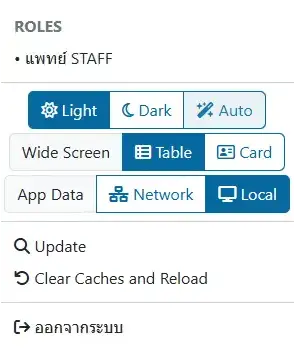
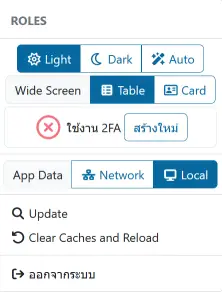
Added contents

diff --git a/src/other/drug-information.md b/src/other/drug-information.md
@@ -1,0 +1,56 @@
+# Drug Information
+
+ระบบสำหรับบันทึกรายละเอียดเวชภัณฑ์ยา 3 ด้าน
+1. `ข้อมูลทั่วไป (Info)` : เป็นข้อมูลยา ที่จะแสดงเมื่อเลือกเวชภัณฑ์ยานั้นใน Order เพื่อเป็นข้อมูลให้รับทราบเท่านั้น
+2. `เงื่อนไขการใช้ยา และขนาดยาที่เหมาะสม (DUE)` : เป็นข้อมูลเงื่อนไข ที่จะแสดงเมื่อเลือกเวชภัณฑ์ยานั้นใน Order และแพทย์ต้องยืนยัน หรือให้เหตุผลประกอบหากผิดเงื่อนไข รวมถึงเภสัชกรสามารถให้ความเห็นเพิ่มเติมให้แพทย์พิจาณาการใช้ยาต่อได้ด้วย
+3. `การบริหารยา การติดตามอาการ และการแก้ปัญหาเบื้องต้น (Monitor)` : เป็นข้อมูลการบริหารยา ที่จะแสดงขณะเจ้าหน้าที่ให้บริการ (Action ใน Index Action) รวมถึงจำนวน/ระยะเวลาการติดตาม ที่เจ้าหน้าที่ต้องบันทึกใน Monitor (ใน Index Monitor)
+
+![Drug Information Head](images/drug-information-head.webp)
+
+ตัวกรองในการค้นหา ได้แก่
+* `สถานะ Info` : เปิด/ปิด การใช้งาน `ข้อมูลทั่วไป (Info)`
+* `สถานะ DUE` : เปิด/ปิด การใช้งาน `เงื่อนไขการใช้ยา และขนาดยาที่เหมาะสม (DUE)`
+* `สถานะ Monitor` : เปิด/ปิด การใช้งาน `การบริหารยา การติดตามอาการ และการแก้ปัญหาเบื้องต้น (Monitor)`
+* `icode` : ค้นหาด้วยรหัสเวชภัณฑ์ใน HOSxP
+* `ชื่อยา ปริมาณ บรรจุ` : ค้นหาด้วยชื่อยา ปริมาณ หรือบรรจุ
+* <i class="fas fa-magnifying-glass" style="color:orange;"></i> `ค้นหา` : เพื่อสั่งการค้นหา
+* <i class="fas fa-plus" style="color:orange;"></i> `เพิ่ม` : เพิ่มรายการใหม่ 
+
+ตัวอย่าง การเพิ่มรายการใหม่
+
+![Drug Information Edit](images/drug-information-edit.webp)
+
+ตัวอย่าง การแสดง `ข้อมูลทั่วไป (Info)` ขณะแพทย์เลือกยาที่เปิดใช้งาน
+
+![Drug Information Info](images/drug-information-info.webp)
+
+ตัวอย่าง การแสดง `เงื่อนไขการใช้ยา และขนาดยาที่เหมาะสม (DUE)` ก่อนที่แพทย์จะยืนยันรายการ ต้องพิจารณาว่า `ตรงตามเกณฑ์` หรือ `มีความจำเป็น` และให้เหตุผลประกอบความจำเป็นนั้น
+
+![Drug Information Doctor](images/drug-information-doctor.webp)
+
+ตัวอย่าง การแสดง `เงื่อนไขการใช้ยา และขนาดยาที่เหมาะสม (DUE)` ก่อนที่เภสัชกร จะรับรายการ โดยเภสัชกรสามารถ `มีข้อเสนอแนะเพื่อพิจารณา` ให้แพทย์พิจารณาใหม่ (โดยยังไม่รับรายการ) ได้
+
+![Drug Information Pharm](images/drug-information-pharm.webp)
+
+ตัวอย่าง การแสดง `การบริหารยา การติดตามอาการ และการแก้ปัญหาเบื้องต้น (Monitor)` เมื่อเจ้าหน้าที่ให้บริการ รวมถึงการ Monitor
+
+![Drug Information Monitor](images/drug-information-monitor.webp)
+
+<div class="warning">
+
+ท่านสามารถระบุการเตือนการใช้เวชภัณฑ์ยา เกินเวลาที่กำหนดได้ ด้วยการตั้งค่าจำนวนวัน
+
+`ชั้นต่ำ` `ขั้นกลาง` และ `ขั้นสูง`
+
+ระบบจะแสดงชื่อเวชภัณฑ์ยาด้วยสีที่กำหนดใน Order
+
+</div>
+
+<div class="warning">
+ท่านสามารถใช้ อักษรก้ามปู
+
+`[`, `]` ครอบตัวอักษรที่ต้องการ เช่น `[Dosage]`
+
+ระบบจะแสดงข้อความด้วย ตัวหนา + สีแดง ขณะแสดงผล เช่น <span style="font-weight:700;color:red;">Dosage</span>
+
+</div>

diff --git a/src/extra/report-designer.md b/src/extra/report-designer.md
@@ -4,19 +4,49 @@
 - รายงาน เขียนด้วยภาษา [Typst](https://typst.app/docs)
 - ชุดข้อมูล ในรูปแบบ [json](https://www.json.org/)
 
-![Report Designer](images/report-designer.webp)
+![Report Designer Sys Show](images/report-designer-sys-show.webp)
 
 ประกอบด้วย 4 ส่วน ได้แก่
 1. เครื่องมือด้านบน ประกอบด้วย
-    * `Report` : สำหรับเลือกรายงานที่มีในระบบ
-    * `ID`/`AN`/`VN` : สำหรับระบุแหล่งข้อมูล เช่น รายงานผู้ป่วยใน ใช้ AN ในการระบุแหล่งข้อมูล
+    * `System / Custom / Demo` : สำหรับเลือกประเภทรายงาน
+    * `Typst / MySQL / Info` : สำหรับเลือกการแสดงผล code ด้านบนซ้าย
+    * `Template` : สำหรับเลือกรายงานที่ต้องการ
+    * `Params` : สำหรับแสดงรายการ parameters
+    * `Values` : สำหรับแสดงรายการ values
+    * `QUERY` : ปุ่มสำหรับเรียกข้อมูล `data.json` จากเครื่องแม่ข่ายด้วย MySQL, Params และ Values ที่ระบุ 
     * `LOAD` : ปุ่มสำหรับเรียกข้อมูล `Report` และ `ID`/`AN`/`VN` จากเครื่องแม่ข่าย
+
+1. หน้าต่างด้าน`ซ้ายบน` สามารถแสดง code 3 ประเภท ได้แก่
+    - `Typst` สำหรับแก้ไขรายงาน ด้วยภาษา [Typst](https://typst.app/docs)
+    - `MySQL` สำหรับแก้ไข MySQL ที่จะแทนที่ `__HOSXP__`, `__KPHIS__`, `__KPHIS_LOG__`, `__KPHIS_EXTRA__` ด้วยชื่อฐานข้อมูลจาก config
+    - `Info` สำหรับแสดงคุ่มือการใช้รายงานนั้นๆ
+1. `data.json` : หน้าต่างด้าน`ซ้ายล่าง` สำหรับแก้ไขชุดข้อมูล [json](https://www.json.org/)
+1. ตัวอย่างรายงาน : หน้าต่างด้าน`ขวา` สำหรับแสดงตัวอย่างรายงาน
+1. เครื่องมือแสดงรายงานด้านล่างขวา
+    * <i class="fas fa-arrow-left" style="color:orange;"></i><i class="fas fa-arrow-right" style="color:orange;"></i> : ปุ่มสำหรับปรับขนาดรายงานให้เต็มความกว้าง
     * `[-][100%][+]` : ปุ่มสำหรับย่อและขยายขนาดของตัวอย่างรายงาน
     * `RENDER` : ปุ่มสำหรับสร้างรายงานและแสดงบนหน้าจอ
     * `PDF` : ปุ่มสำหรับสร้างรายงาน เป็นไฟล์ PDF
-1. `Typst` : หน้าต่างด้าน`ซ้ายบน` สำหรับแก้ไขรายงาน ด้วยภาษา [Typst](https://typst.app/docs)
-1. `data.json` : หน้าต่างด้าน`ซ้ายล่าง` สำหรับแก้ไขชุดข้อมูล [json](https://www.json.org/)
-1. ตัวอย่างรายงาน : หน้าต่างด้าน`ขวา` สำหรับแสดงตัวอย่างรายงาน
+    * <i class="fas fa-window-maximize" style="color:orange;"></i> : ปุ่มสำหรับปิด/เปิดส่วนแสดงรายงาน
+
+ตัวอย่างการกรอก parameters
+
+![Report Designer Custom Params](images/report-designer-custom-params.webp)
+
+ระบบจะนำ parameter ป้อนให้ Parameterized Query ตามลำดับ `?` ใน MySQL โดย parameter มี 6 ชนิด ได้แก่
+- `Single` : ใช้ร่วมกับ `?` โดยตรง
+- `List` : ใช้ร่วมกับ `?` ด้วย `Value` และ `Label` ที่กำหนดไว้
+- `System List` : ใช้ร่วมกับ `?` ด้วย `Value` และ `Label` จากตารางใน HOSxP และ KPHIS
+- `Array` : ใช้ร่วมกับ `IN (?)` ด้วย values หลายค่าได้ เช่นเดียวกับ `IN (?,?,?)`
+- `Array of List` : ใช้ร่วมกับ `IN (?)` ด้วย `Value` และ `Label` ที่กำหนดไว้
+- `Array of System List` : ใช้ร่วมกับ `IN (?)` ด้วย `Value` และ `Label` จากตารางใน HOSxP และ KPHIS
+
+ตัวอย่างการกรอก values
+
+![Report Designer Sys ID](images/report-designer-sys-ids.webp)
+
+- values สำหรับ parameter ชนิด `Single`, `List` และ `System List` มีได้เพียงค่าเดียว
+- values สำหรับ parameter ชนิด `Array`, `Array of List` และ `Array of System List` มีได้หลายค่า คั่นด้วย `,`
 
 <div class="warning">
 

diff --git a/src/extra/coding-audit.md b/src/extra/coding-audit.md
@@ -1,0 +1,32 @@
+# ระบบประเมินการให้รหัสโรคผู้ป่วยใน SA/CA (Summary/Coding Audit)
+
+ระบบสำหรับประเมินการให้รหัสโรค โดยใช้ข้อมูลการให้รหัสโรคใน HOSxP, คำวินิจฉัยโดยแพทย์ใน KPHIS และรหัสโรคใน KPHIS เพื่อให้ Auditor ประเมิน Summary Audit (SA) และ Coding Audit (CA) รวมถึงเปรียบเทียบ AdjRW จากการให้รหัสโรคดังกล่าวด้วย 
+
+![Coding Audit Top](images/coding-audit-top.webp)
+- ปุ่ม `+ เพิ่ม` : เพิ่มการ Audit ใหม่ (เวชระเบียน สามารถมีการ Audit ได้หลายครั้ง)
+- กล่อง `PROBLEM LIST` : แสดง Problem list ทั้งหมดในเวชระเบียน (คัดรายการที่ซ้ำกันออกแล้ว) เช่นเดียวกับในระบบ [บันทึกการสรุปเวชระเบียน (In-Patient Summary)](ipd/summary.md)
+- กล่อง `LAB ALERT` : แสดง Lab Alert ที่พบในเวชระเบียน เช่นเดียวกับในระบบ [บันทึกการสรุปเวชระเบียน (In-Patient Summary)](ipd/summary.md)
+- กล่อง `Current Dx/Op on Summary (KPHIS)` : แสดงรายการ `คำวินิจฉัยโรค` ตามการสรุปเวชระเบียนใน KPHIS
+- กล่อง `Current ICD in Summary (KPHIS)` : แสดงรายการ `รหัสโรค` ที่ Coder ได้ให้ไว้ใน KPHIS
+- กล่อง `Current ICD in Computer (HOSxP)` : แสดงรายการ `รหัสโรค` ที่ Coder ได้ให้ไว้ใน HOSxP
+- กล่อง `AUDITOR / CODER / DOCTOR NOTE` : ระบบข้อความสำหรับสื่อสารระหว่าง Auditor, Coder และแพทย์ผู้สรุปเวชระเบียน เช่นเดียวกับในระบบ [บันทึกการสรุปเวชระเบียน (In-Patient Summary)](ipd/summary.md)
+- กล่อง `SUMMARY STATUS` : สำหรับกำหนดสถานะของเวชระเบียน เพื่อดำเนินการต่อไป
+
+![Coding Audit Bottom](images/coding-audit-bottom.webp)
+- `Audit Type` : กำหนดรายการ Audit แบบ Internal หรือ External audit
+- `Payer Type` : กำหนดกองทุนเงินชดเชยค่ารักษาพยาบาล ได้แก่ `UC`(หลักประกันสุขภาพแห่งชาติ), `OFC`(เบิกได้/กรมบัญชีกลาง), `LGO`(สวัสดิการพนักงานส่วนท้องถิ่น) และ `SSS`(ประกันสังคม)
+- `Physician's authentication` : กำหนดวิธีลงนามของแพทย์ ได้แก่ `No`(ไม่ได้ลงนาม), `Text`(ชื่อ-สกุล), `Cursive`(ลายเซ็น) และ `Digital`(ลายเซ็นติจิทัล),
+- `SA` : การประเมิน Summary Audit ในภาพรวมของเวชระเบียน
+- `CA` : การประเมิน Coding Audit ในภาพรวมของเวชระเบียน
+- `ค้นหา` : กล่องสำหรับค้นหา รหัสโรค ICD10 และ ICD9CM
+- `ประเมินการบันทึกข้อมูล` : รายการประเมินข้อมูลทั่วไปในเวชระเบียน
+- การประเมิน PDx, SDx, ODx และ Op : บันทึกผลการประเมิน Summary Audit และ Coding Audit ในแต่ละการวินิจฉัย
+- `DRG in Computer` : คำนวน DRG จากข้อมูล `In Computer` ทั้งหมด
+- `DRG from R ICD` : คำนวน DRG จากการให้รหัสของ Auditor
+
+<div class="warning">
+
+ท่านสามารถลากข้อความ จากกล่อง `Current Dx/Op on Summary (KPHIS)`, `Current ICD in Summary (KPHIS)` และ `Current ICD in Computer (HOSxP)` ลงมายัง การประเมิน PDx, SDx, ODx และ Op ได้
+
+และท่านก็สามารถลากข้อความ ใน `??? in Summary`, `S ICD`, `C ICD`, `R ICD`, `??? from Review` จาก PDx/SDx/ODx/Op หนึ่ง สลับกับอีก PDx/SDx/ODx/Op ได้ด้วย 
+</div>

diff --git a/src/extra/README.md b/src/extra/README.md
@@ -1,6 +1,7 @@
 # เพิ่มเติมจาก KPHIS ต้นฉบับ
-
-- [ระบบออกแบบเอกสาร (Report Designer)](extra/report-designer.md) : ระบบสำหรับทดลองสร้างรายงาน โดยอ้างอิงจากรายงานในระบบ ท่านสามารถแก้ไขรายงานด้วยภาษา [Typst](https://typst.app/docs)  และแก้ไขชุดข้อมูล [json](https://www.json.org/) ได้
-- [ระบบรูปภาพ](extra/image.md) : ระบบอัพโหลดและแสดงรูปภาพใน KPHIS เพื่อใช้ประโยชน์ในการดูแลรักษาผู้ป่วย
-- [ระบบข้อความ](extra/message.md) : ระบบรับ-ส่งข้อความใน KPHIS โดยมีข้อความจากระบบงาน ข้อความระหว่างผู้ใช้งาน และหน่วยงาน/หอผู้ป่วย
-- [ระบบทบทวนเวชระเบียนผู้ป่วยใน (IPD-MRA)](extra/ipd-mra.md) : ระบบสำหรับบันทึก การทบทวนเวชระเบียนผู้ป่วยใน ตามคู่มือการตรวจประเมินคุณภาพเวชระเบียน (Medical Record Audit Guideline) 2563 โดยสถาบันรับรองคุณภาพสถานพยาบาล (องค์กรมหาชน), สภาการพยาบาล, กรมบัญชีกลาง, สำนักงานประกันสังคม และสำนักงานหลักประกันสุขภาพแห่งชาติ
+- [ระบบแสดงรายงาน (Report Viewer)](report-viewer.md) : ระบบสำหรับแสดงรายงาน
+- [ระบบออกแบบเอกสาร (Report Designer)](report-designer.md) : ระบบสำหรับสร้างรายงานใหม่ หรือทดสอบรายงานในระบบ โดยท่านสามารถแก้ไขรายงานด้วยภาษา [Typst](https://typst.app/docs) กำหนดตัวแปรต่างๆ รวมถึงการแก้ไขชุดข้อมูล [json](https://www.json.org/) ได้
+- [ระบบรูปภาพ](image.md) : ระบบอัพโหลดและแสดงรูปภาพใน KPHIS เพื่อใช้ประโยชน์ในการดูแลรักษาผู้ป่วย
+- [ระบบข้อความ](message.md) : ระบบรับ-ส่งข้อความใน KPHIS โดยมีข้อความจากระบบงาน ข้อความระหว่างผู้ใช้งาน และหน่วยงาน/หอผู้ป่วย
+- [ระบบทบทวนเวชระเบียนผู้ป่วยใน (IPD-MRA)](ipd-mra.md) : ระบบสำหรับบันทึก การทบทวนเวชระเบียนผู้ป่วยใน ตามคู่มือการตรวจประเมินคุณภาพเวชระเบียน (Medical Record Audit Guideline) 2563 โดยสถาบันรับรองคุณภาพสถานพยาบาล (องค์กรมหาชน), สภาการพยาบาล, กรมบัญชีกลาง, สำนักงานประกันสังคม และสำนักงานหลักประกันสุขภาพแห่งชาติ
+- [ระบบประเมินการให้รหัสโรคผู้ป่วยใน SA/CA (Summary/Coding Audit)](coding-audit.md) : ระบบสำหรับประเมินการให้รหัสโรค โดยใช้ข้อมูลการให้รหัสโรคใน HOSxP, คำวินิจฉัยโดยแพทย์ใน KPHIS และรหัสโรคใน KPHIS เพื่อให้ Auditor ประเมิน Summary Audit (SA) และ Coding Audit (CA) รวมถึงเปรียบเทียบ AdjRW จากการให้รหัสโรคดังกล่าวด้วย 

diff --git a/src/extra/report-viewer.md b/src/extra/report-viewer.md
@@ -1,0 +1,10 @@
+# ระบบแสดงรายงาน (Report Viewer)
+
+ระบบสำหรับแสดงรายงาน ประกอบด้วย 2 ประเภท
+1. รายงาน IPD / OPD-ER
+![Report Viewer System](images/report-viewer-sys.webp)
+เป็นรายงานในระบบ ที่สามารถแก้ไขได้โดยผู้ดูแลระบบเท่านั้น ผู้ใช้งานเพียงเลือก `รายงาน`, `Ward` ที่ต้องการ ระบบจะแสดงรายการผู้ป่วยให้ท่านเลือก และแสดงรายงานเมื่อคลิกที่รายการผู้ป่วยที่ต้องการ
+
+2. รายงาน Custom
+![Report Viewer Custom](images/report-viewer-custom.webp)
+เป็นรายงานที่สร้างขึ้นเองจาก [ระบบออกแบบเอกสาร (Report Designer)](report-designer.md) โดยที่ผู้ใช้งานเพียงกรอกข้อมูลที่รายงานต้องการ ระบบจะสร้างรายงานให้ 

diff --git a/src/general.md b/src/general.md
@@ -16,7 +16,7 @@
 ## การใช้งานระบบต่างๆ
 ![Info page](images/info.webp)
 
-ประกอบด้วยเมนูย่อย ได้แก่ `แพทย์`,`พยาบาล`,`เภสัชกร`,`อื่นๆ`,`Setting`,`ข้อความ`, `รคส` และ `ผู้ใช้งาน`
+ประกอบด้วยเมนูย่อย ได้แก่ `แพทย์`,`พยาบาล`,`เภสัชกร`,`อื่นๆ`,`Setting`,`ข้อความ`, `รคส`, `สรุป` และ `ผู้ใช้งาน`
 <!-- ANCHOR: service-visibility -->
 <div class="warning">
 
@@ -83,18 +83,23 @@
 ### เมนู `Setting` 
 ![Setting Menu](images/menu-setting.webp)
 
+* [Drug Information](other/drug-information.md) : กำหนดข้อมูลเวชภัณฑ์ยา ได้แก่ ข้อมูลทั่วไป, เงื่อนไขการใช้ยาอย่างเหมาะสม (DUE) และข้อมูลการบริหารยา การติดตามอาการ การแก้ปัญหาเบื้องต้น (Monitor)
 * [Template Nurse Note](other/template-nurse.md) : สร้าง Template สำหรับการบันทึกทางการพยาบาล (Focus Charting) ตามระบบ Assessment Intervention Evaluation (AIE)
 * [Template D/C Plan](other/template-discharge-plan.md) : สร้าง Template สำหรับการบันทึก Discharge Plan แยกตามการวินิจฉัย
 * [จัดการผู้ใช้งาน](other/user-list.md) : แสดงรายการ `ผู้ใช้งาน` จาก HOSxP และสามารถกำหนด `บทบาท (Role)` ให้กับผู้ใช้งานได้
 * [จัดการบทบาท](other/permission-list.md) : แสดงรายการ `บทบาท (Role)` และสามารถกำหนด `สิทธิ (Permission)` ให้กับบทบาทได้
+* [Report Viewer](extra/report-viewer.md) : โปรแกรมสำหรับแสดงรายงานต่างๆ ในระบบ
 * [Report Designer](extra/report-designer.md) : โปรแกรมสำหรับทดสอบการสร้างรายงานต่างๆ
 * [Image Cache](extra/image.md) : แสดงรายการรูปภาพ ที่อุปกรณ์นี้เคยถ่ายรูปไว้
 
 ### เมนู <i class="far fa-envelope"></i>
 [ระบบข้อความ](extra/message.md)
 
-### เมนู <i class="fas fa-marker"></i>
+### เมนู <i class="fas fa-marker"></i> รคส
 [ระบบจัดการ รคส](extra/order-as.md)
+
+### เมนู <i class="fas fa-clipboard"></i> สรุป
+แจ้งเตือน จำนวนเวชระเบียนที่แพทย์ยังไม่ได้สรุป และเวชระเบียนรอการทบทวนโดยแพทย์
 
 ### เมนู `ชื่อผู้ใช้งาน`  
 ![User Menu](images/menu-user.webp)
@@ -102,6 +107,7 @@
 * `ROLES` : แสดงบทบาทผู้ใช้งาน
 * `Light|Dark|Auto` : เปลี่ยน Theme ของโปรแกรม เป็นแบบ `โทนสีขาว`,`โทนสีดำ`,`ตาม Browser กำหนด`
 * `Wide Screen` : ตั้งค่าการแสดงในจอกว้าง (> 1,750 pixel) สำหรับตารางที่สามารถแสดงในรูปแบบการ์ดผู้ป่วยได้ ให้แสดงแบบ ตาราง (`Table`) หรือ การ์ดผู้ป่วย (`Card`)
+* `2FA` เปิด/ปิด ระบบ Two-Factor Authentication (2FA)
 * `App Data` : ตั้งค่าแหล่งข้อมูลพื้นฐานของโปรแกรม (รายชื่อเจ้าหน้าที่, รายการรหัสโรค, รายชื่อหน่วยบริการ, ฯลฯ) ให้ระบบใช้ข้อมุลจาก เครือข่าย(`Network`) หรือ ข้อมูลสำรองในเครื่อง(`Local`)
 * `Update` : ค้นหาและ Update โปรแกรม 
 * `Clear Caches and Reload` : ล้างโปรแกรมและข้อมูลส่วนบุคคล ออกจากระบบ สู่หน้า [การเข้าสู่ระบบ](#การเขาสูระบบ)

diff --git a/src/other/README.md b/src/other/README.md
@@ -1,5 +1,7 @@
 # ระบบงานอื่นๆ
 
-- [Template การบันทึกทางการพยาบาล (Focus Charting)](other/template-nurse.md) : สร้างแม่พิมพ์ (Template) การบันทึกทางการพยาบาล ในระบบ Focus Charting
-- [ระบบจัดการผู้ใช้งาน](other/user-list.md) : กำหนดบทบาท(`Role`) ให้กับผู้ใช้งาน
-- [ระบบจัดการบทบาทผู้ใช้งาน](other/permission-list.md) : กำหนดสิทธิ์(`User Permission`) ให้กับบทบาท(`Role`)
+- [Drug Information](drug-information.md) : กำหนดข้อมูลเวชภัณฑ์ยา ได้แก่ ข้อมูลทั่วไป, เงื่อนไขการใช้ยาอย่างเหมาะสม (DUE) และข้อมูลการบริหารยา การติดตามอาการ การแก้ปัญหาเบื้องต้น (Monitor)
+- [Template การบันทึกทางการพยาบาล (Focus Charting)](template-nurse.md) : สร้างแม่พิมพ์ (Template) การบันทึกทางการพยาบาล ในระบบ Focus Charting
+- [Template Discharge Plan](template-discharge-plan.md) : สร้างแม่พิมพ์ (Template) การบันทึกวางแผนจำหน่ายผู้ป่วย แยกตามการวินิจฉัยโรค
+- [ระบบจัดการผู้ใช้งาน](user-list.md) : กำหนดบทบาท(`Role`) ให้กับผู้ใช้งาน
+- [ระบบจัดการบทบาทผู้ใช้งาน](permission-list.md) : กำหนดสิทธิ์(`User Permission`) ให้กับบทบาท(`Role`)

diff --git a/src/SUMMARY.md b/src/SUMMARY.md
@@ -44,6 +44,7 @@
     - [เอกสาร Antibiogram](shared/antibiogram.md)
 
 - [ระบบงานอื่นๆ](other/README.md)
+    - [Drug Information](other/drug-information.md)
     - [Template การบันทึกทางการพยาบาล (Focus Charting)](other/template-nurse.md)
     - [Template Discharge Plan](other/template-discharge-plan.md)
     - [ระบบจัดการผู้ใช้งาน](other/user-list.md)
@@ -51,12 +52,15 @@
 
 - [เครื่องมือ](tool/README.md)
     - [ตัวอย่างรายงาน](tool/document-preview.md)
+
 - [เพิ่มเติมจาก KPHIS ต้นฉบับ](extra/README.md)
-    - [ระบบออกแบบเอกสาร (Report Designer)](extra/report-designer.md)
+    - [ระบบแสดงรายงาน (Report Viewer)](extra/report-viewer.md)
+    - [ระบบออกแบบรายงาน (Report Designer)](extra/report-designer.md)
     - [ระบบรูปภาพ](extra/image.md)
     - [ระบบจัดการ รคส](extra/order-as.md)
     - [ระบบข้อความ](extra/message.md)
     - [ระบบทบทวนเวชระเบียนผู้ป่วยใน (IPD-MRA)](extra/ipd-mra.md)
+    - [ระบบประเมินการให้รหัสโรคผู้ป่วยใน SA/CA (Summary/Coding Audit)](extra/coding-audit.md)
 
 - [วิธีการเขียนต้นฉบับ](howto-contribute.md)
     - [เตรียมพร้อมเขียนหนังสือ](howto-code.md)